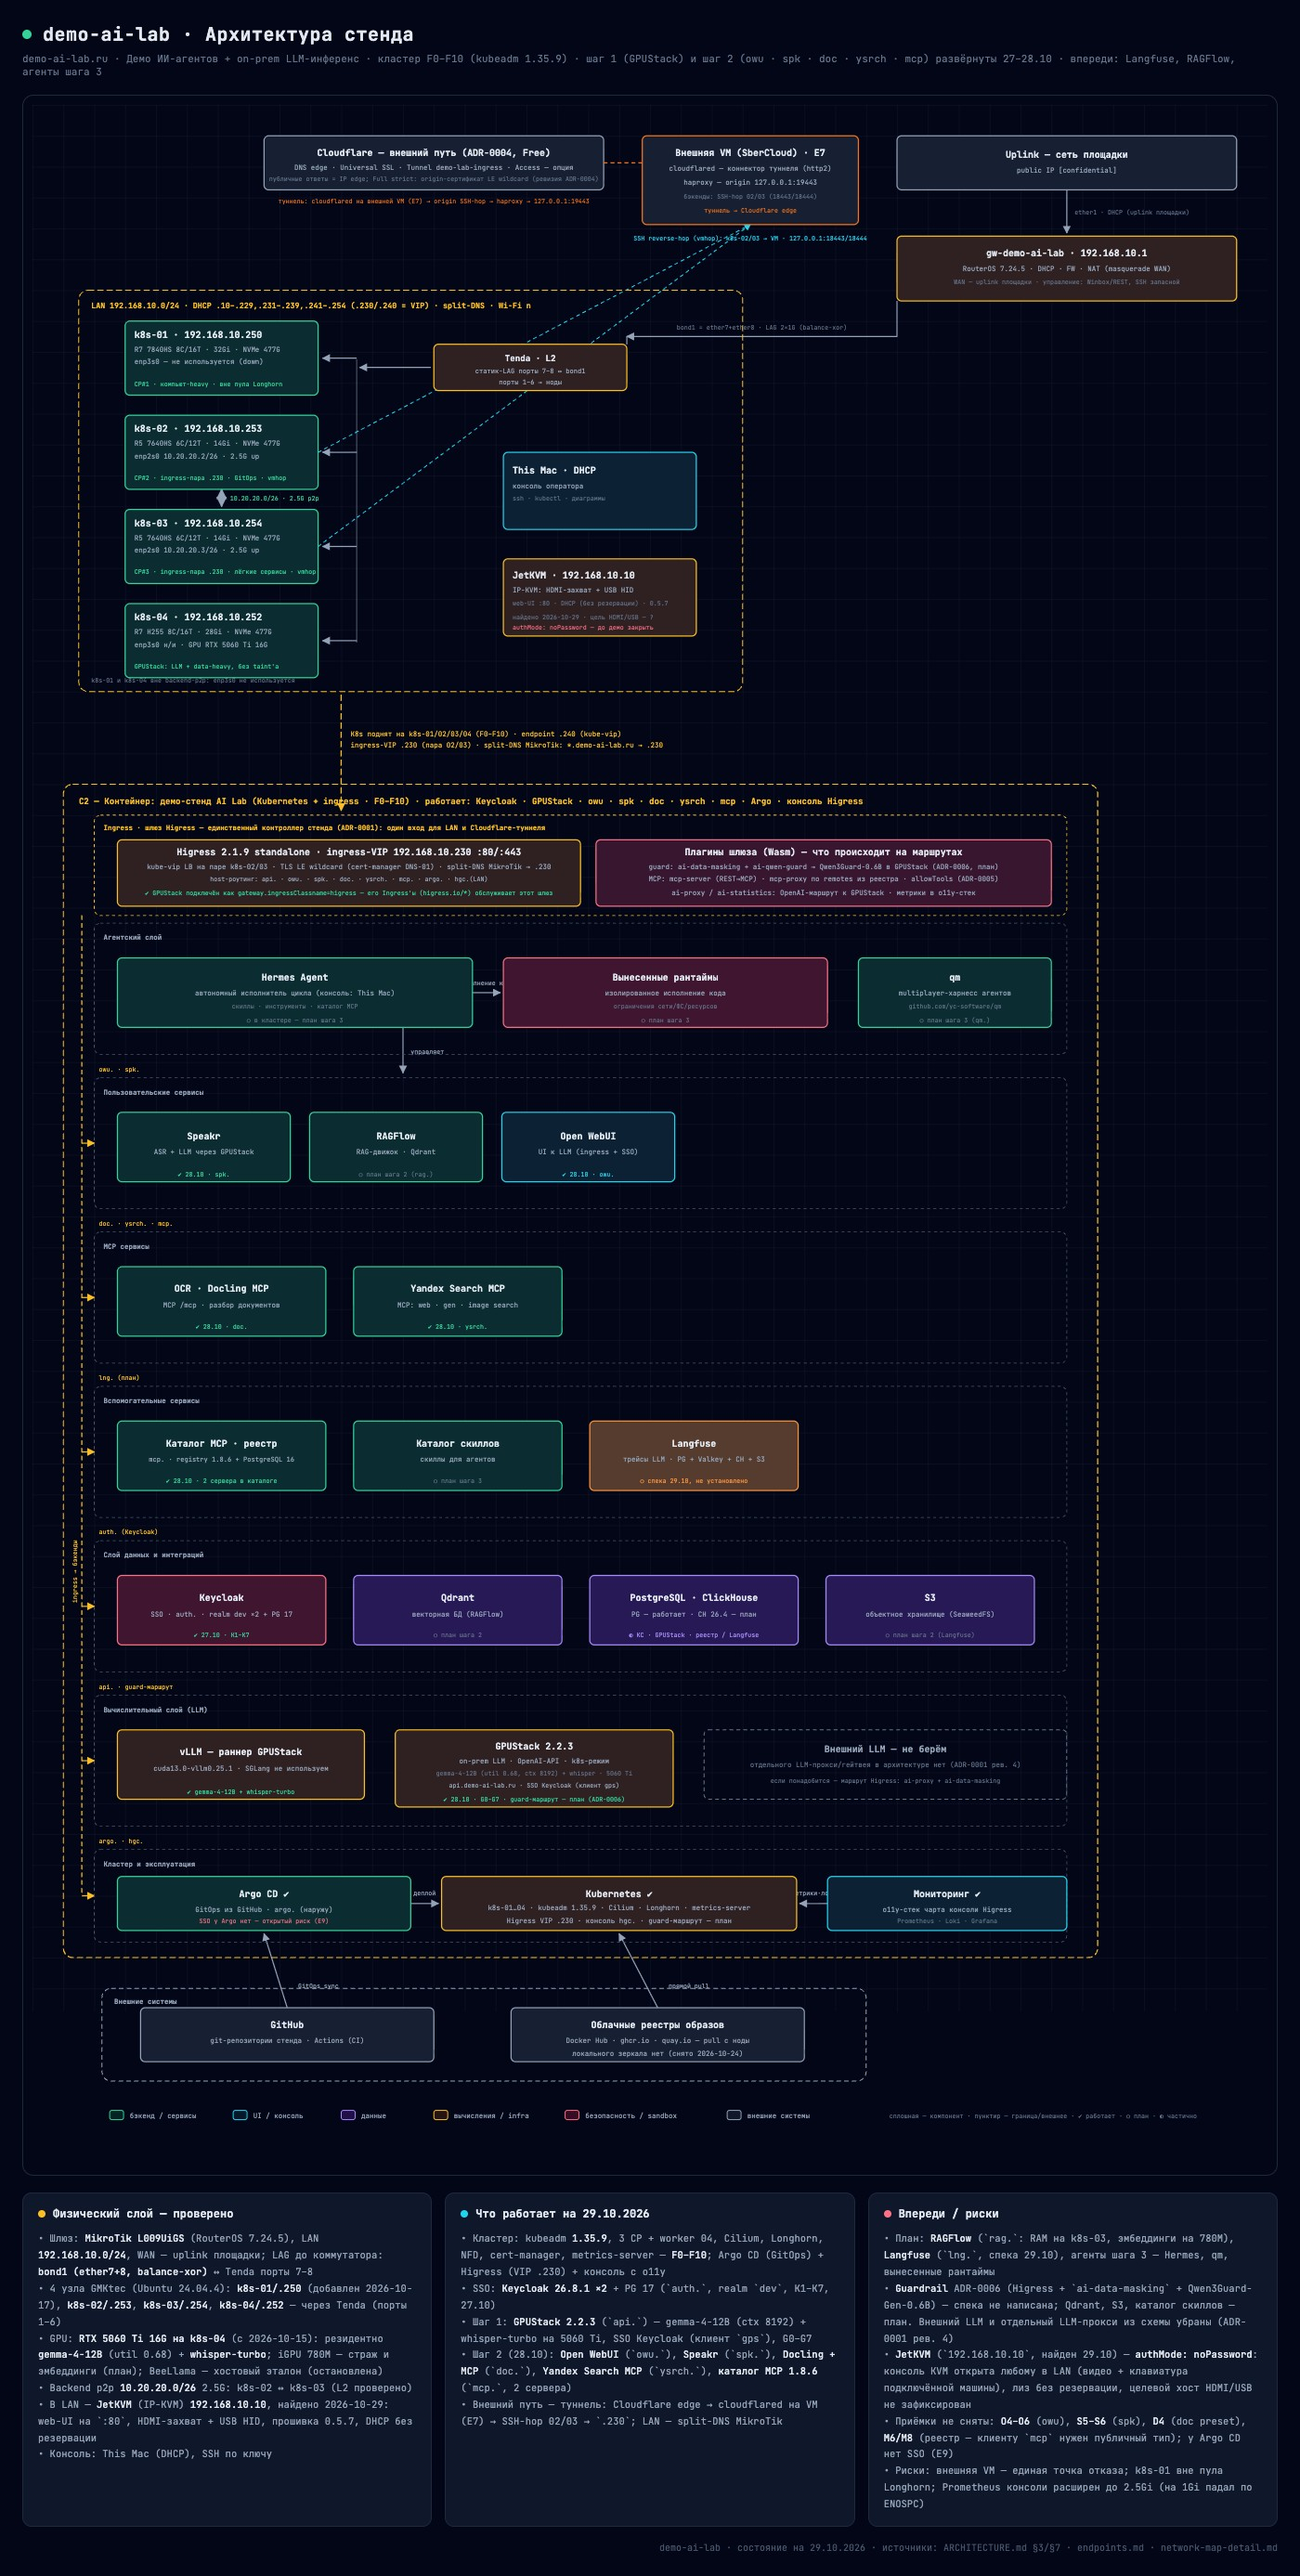
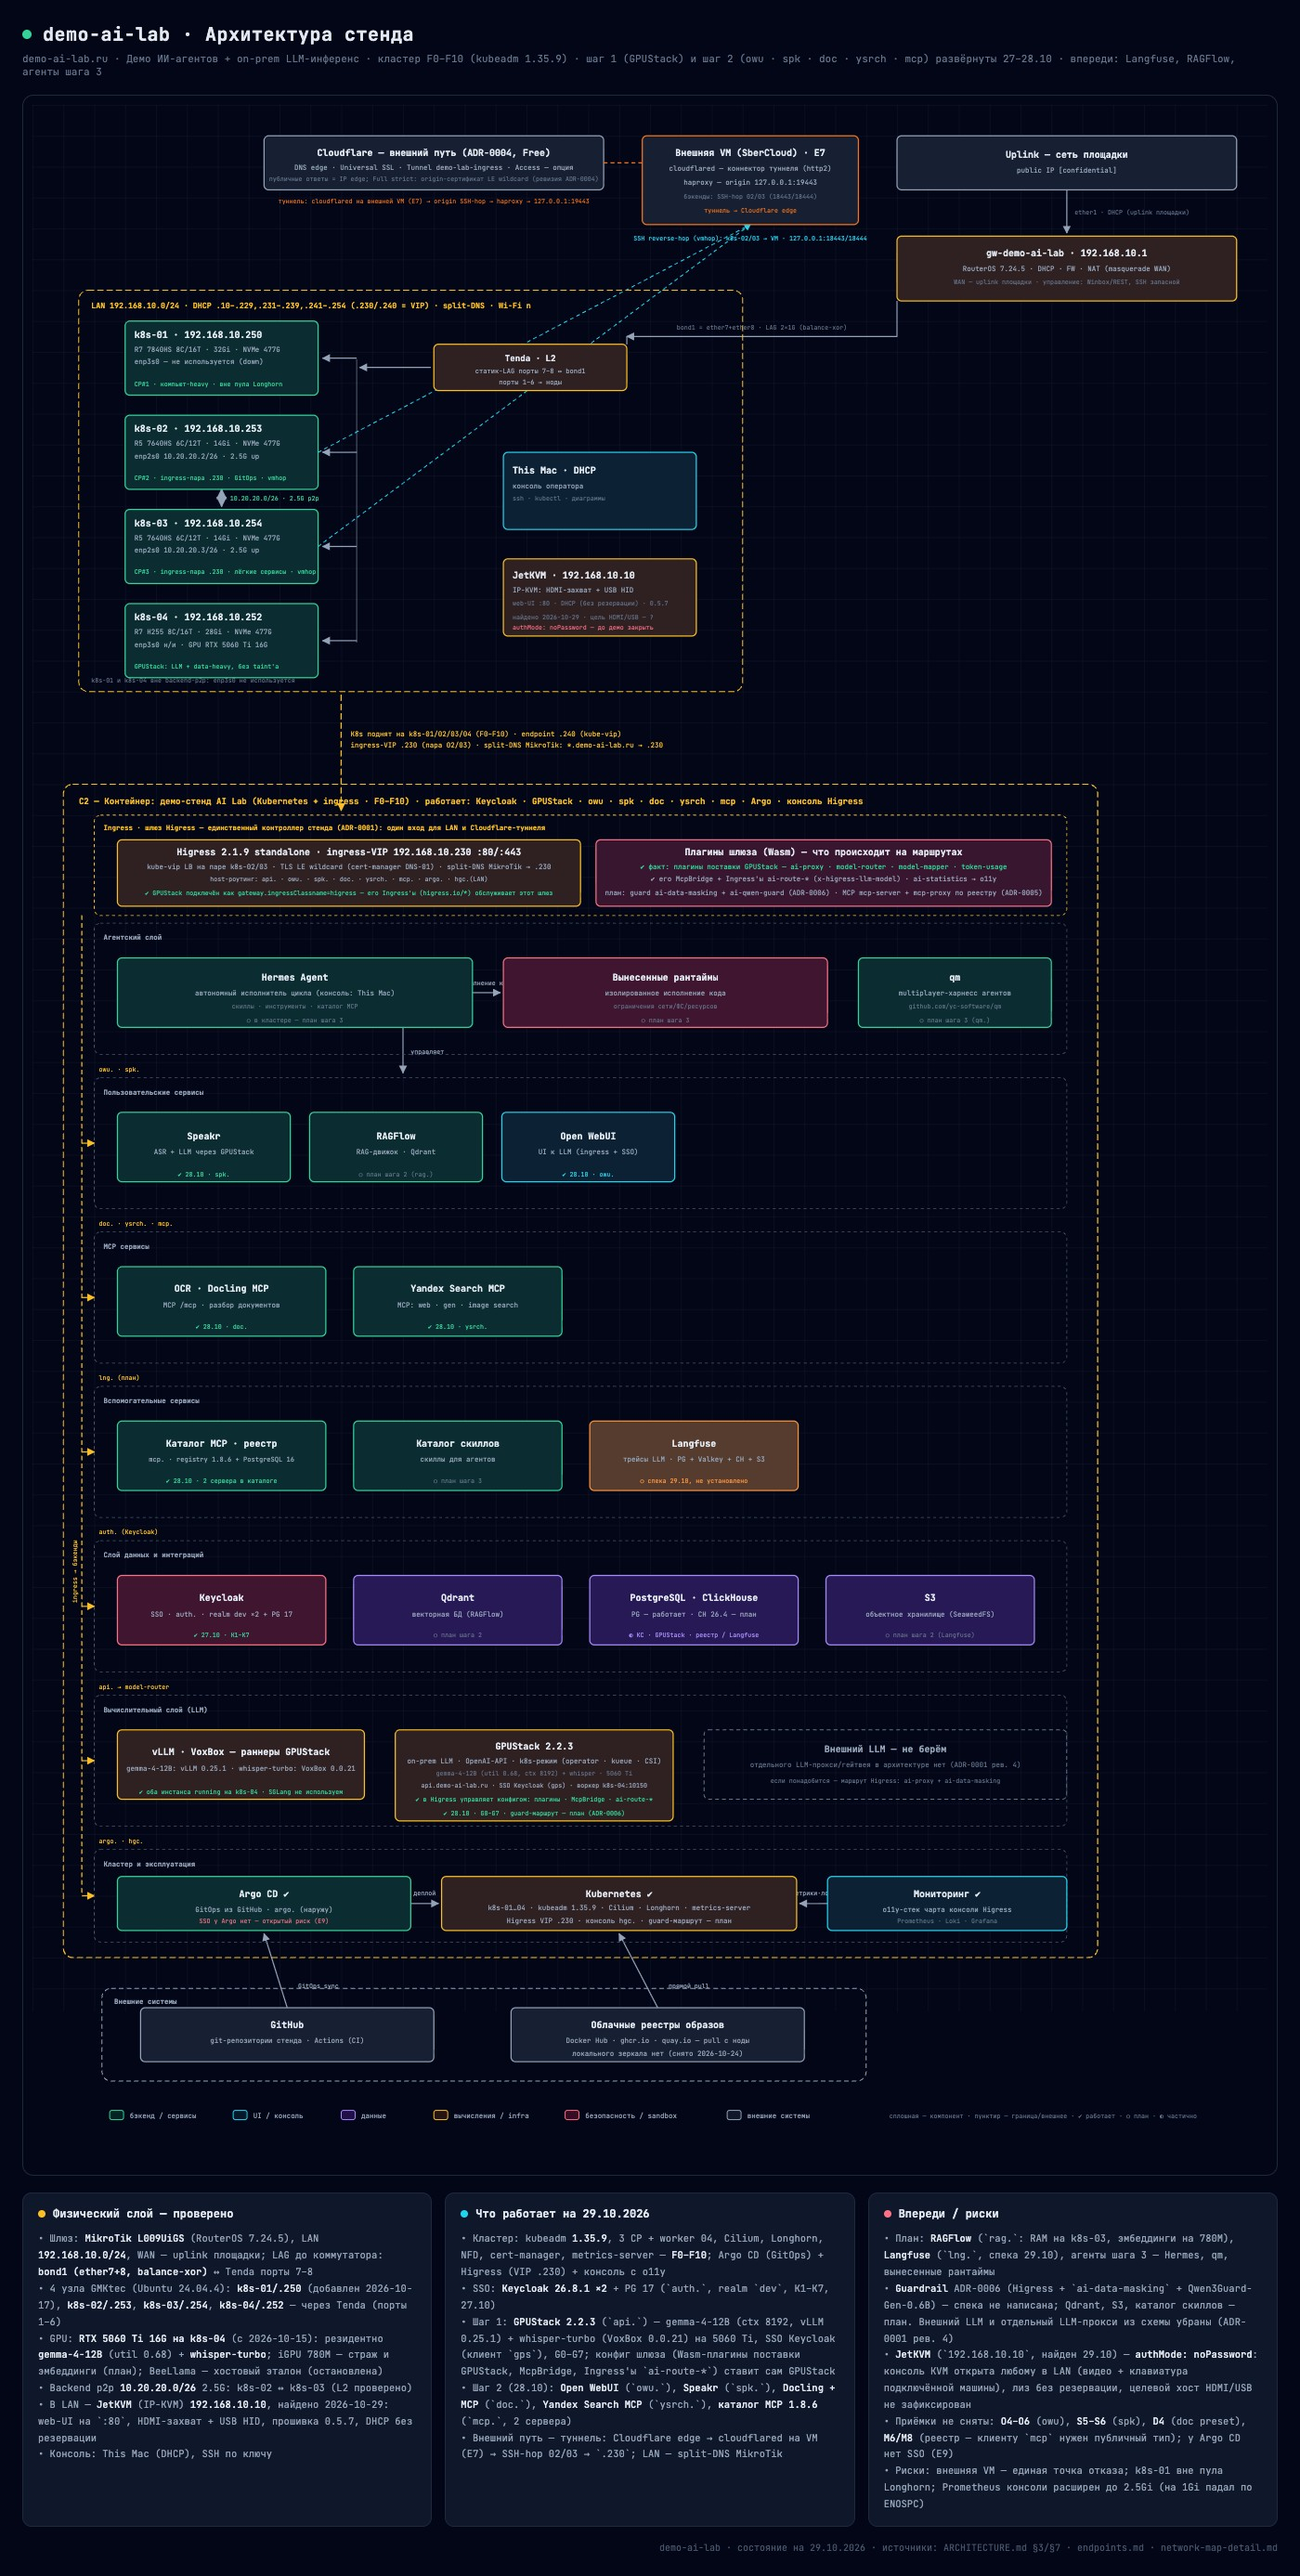
docs(architecture): вычислительный слой HTML по факту кластера
- раннеры разделены: gemma-4-12B на vLLM 0.25.1, whisper-turbo на VoxBox 0.0.21
  (было «cuda13.0-vllm0.25.1 … + whisper-turbo» под одним vLLM); SGLang не используем
- GPUStack: k8s-режим (operator · kueue · CSI), воркер на k8s-04:10150 и факт, что
  конфиг шлюза (Wasm-плагины поставки, McpBridge, Ingress'ы ai-route-*) ставит он сам
- карточка плагинов шлюза: разделено «факт» (ai-proxy · model-router · model-mapper ·
  token-usage) и «план» (guard ADR-0006, MCP ADR-0005)
- подпись на ingress-шине: api. → model-router вместо «api. · guard-маршрут»

Changed region(s): [[0.3686, 0.8991, 0.645, 0.9611], [0.3071, 0.682, 0.5221, 0.713]]

diff --git a/architecture/demo-ai-lab-architecture.html b/architecture/demo-ai-lab-architecture.html
@@ -154,9 +154,9 @@
   <rect x="730" y="952" width="590" height="86" rx="6" fill="#0f172a"/>
   <rect x="730" y="952" width="590" height="86" rx="6" fill="rgba(136,19,55,0.35)" stroke="#fb7185" stroke-width="1.5"/>
   <text x="1025" y="972" font-size="12" fill="#e2e8f0" text-anchor="middle" font-weight="700">Плагины шлюза (Wasm) — что происходит на маршрутах</text>
-  <text x="1025" y="990" font-size="9" fill="#94a3b8" text-anchor="middle">guard: ai-data-masking + ai-qwen-guard → Qwen3Guard-0.6B в GPUStack (ADR-0006, план)</text>
-  <text x="1025" y="1006" font-size="9" fill="#94a3b8" text-anchor="middle">MCP: mcp-server (REST→MCP) · mcp-proxy по remotes из реестра · allowTools (ADR-0005)</text>
-  <text x="1025" y="1024" font-size="9" fill="#94a3b8" text-anchor="middle">ai-proxy / ai-statistics: OpenAI-маршрут к GPUStack · метрики в o11y-стек</text>
+  <text x="1025" y="990" font-size="9" fill="#34d399" text-anchor="middle">✔ факт: плагины поставки GPUStack — ai-proxy · model-router · model-mapper · token-usage</text>
+  <text x="1025" y="1006" font-size="9" fill="#94a3b8" text-anchor="middle">✔ его McpBridge + Ingress'ы ai-route-* (x-higress-llm-model) · ai-statistics → o11y</text>
+  <text x="1025" y="1024" font-size="9" fill="#94a3b8" text-anchor="middle">план: guard ai-data-masking + ai-qwen-guard (ADR-0006) · MCP mcp-server + mcp-proxy по реестру (ADR-0005)</text>
 
   <!-- шина ingress: от шлюза к бэкендам -->
   <line x1="64" y1="1050" x2="64" y2="2320" stroke="#fbbf24" stroke-width="1.5" stroke-dasharray="6,4"/>
@@ -169,7 +169,7 @@
   <line x1="64" y1="1945" x2="80" y2="1945" stroke="#fbbf24" stroke-width="1.5" marker-end="url(#arrAmber)"/>
   <text x="86" y="1852" font-size="8" fill="#fbbf24">auth. (Keycloak)</text>
   <line x1="64" y1="2145" x2="80" y2="2145" stroke="#fbbf24" stroke-width="1.5" marker-end="url(#arrAmber)"/>
-  <text x="86" y="2052" font-size="8" fill="#fbbf24">api. · guard-маршрут</text>
+  <text x="86" y="2052" font-size="8" fill="#fbbf24">api. → model-router</text>
   <line x1="64" y1="2320" x2="80" y2="2320" stroke="#fbbf24" stroke-width="1.5" marker-end="url(#arrAmber)"/>
   <text x="86" y="2252" font-size="8" fill="#fbbf24">argo. · hgc.</text>
   <text x="0" y="0" transform="translate(58,1900) rotate(-90)" font-size="8" fill="#fbbf24" text-anchor="middle">ingress → бэкенды</text>
@@ -385,17 +385,18 @@
   <!-- ===== вычисления ===== -->
   <rect x="110" y="2105" width="320" height="90" rx="6" fill="#0f172a"/>
   <rect x="110" y="2105" width="320" height="90" rx="6" fill="rgba(120,53,15,0.3)" stroke="#fbbf24" stroke-width="1.5"/>
-  <text x="270" y="2138" font-size="12" fill="#e2e8f0" text-anchor="middle" font-weight="700">vLLM — раннер GPUStack</text>
-  <text x="270" y="2158" font-size="9" fill="#94a3b8" text-anchor="middle">cuda13.0-vllm0.25.1 · SGLang не используем</text>
-  <text x="270" y="2188" font-size="8" fill="#34d399" text-anchor="middle">✔ gemma-4-12B + whisper-turbo</text>
+  <text x="270" y="2138" font-size="12" fill="#e2e8f0" text-anchor="middle" font-weight="700">vLLM · VoxBox — раннеры GPUStack</text>
+  <text x="270" y="2158" font-size="9" fill="#94a3b8" text-anchor="middle">gemma-4-12B: vLLM 0.25.1 · whisper-turbo: VoxBox 0.0.21</text>
+  <text x="270" y="2188" font-size="8" fill="#34d399" text-anchor="middle">✔ оба инстанса running на k8s-04 · SGLang не используем</text>
 
-  <rect x="470" y="2105" width="360" height="100" rx="6" fill="#0f172a"/>
-  <rect x="470" y="2105" width="360" height="100" rx="6" fill="rgba(120,53,15,0.3)" stroke="#fbbf24" stroke-width="1.5"/>
+  <rect x="470" y="2105" width="360" height="118" rx="6" fill="#0f172a"/>
+  <rect x="470" y="2105" width="360" height="118" rx="6" fill="rgba(120,53,15,0.3)" stroke="#fbbf24" stroke-width="1.5"/>
   <text x="650" y="2130" font-size="12" fill="#e2e8f0" text-anchor="middle" font-weight="700">GPUStack 2.2.3</text>
-  <text x="650" y="2148" font-size="9" fill="#94a3b8" text-anchor="middle">on-prem LLM · OpenAI-API · k8s-режим</text>
+  <text x="650" y="2148" font-size="9" fill="#94a3b8" text-anchor="middle">on-prem LLM · OpenAI-API · k8s-режим (operator · kueue · CSI)</text>
   <text x="650" y="2164" font-size="8" fill="#64748b" text-anchor="middle">gemma-4-12B (util 0.68, ctx 8192) + whisper · 5060 Ti</text>
-  <text x="650" y="2180" font-size="8" fill="#94a3b8" text-anchor="middle">api.demo-ai-lab.ru · SSO Keycloak (клиент gps)</text>
-  <text x="650" y="2198" font-size="8" fill="#34d399" text-anchor="middle">✔ 28.10 · G0–G7 · guard-маршрут — план (ADR-0006)</text>
+  <text x="650" y="2180" font-size="8" fill="#94a3b8" text-anchor="middle">api.demo-ai-lab.ru · SSO Keycloak (gps) · воркер k8s-04:10150</text>
+  <text x="650" y="2198" font-size="8" fill="#34d399" text-anchor="middle">✔ в Higress управляет конфигом: плагины · McpBridge · ai-route-*</text>
+  <text x="650" y="2216" font-size="8" fill="#34d399" text-anchor="middle">✔ 28.10 · G0–G7 · guard-маршрут — план (ADR-0006)</text>
 
   <rect x="870" y="2105" width="470" height="90" rx="6" fill="none" stroke="#64748b" stroke-width="1.2" stroke-dasharray="5,4"/>
   <text x="1105" y="2134" font-size="12" fill="#94a3b8" text-anchor="middle" font-weight="700">Внешний LLM — не берём</text>
@@ -470,7 +471,7 @@
     <ul>
       <li>• Кластер: kubeadm <b>1.35.9</b>, 3 CP + worker 04, Cilium, Longhorn, NFD, cert-manager, metrics-server — <b>F0–F10</b>; Argo CD (GitOps) + Higress (VIP .230) + консоль с o11y</li>
       <li>• SSO: <b>Keycloak 26.8.1 ×2</b> + PG 17 (`auth.`, realm `dev`, K1–K7, 27.10)</li>
-      <li>• Шаг 1: <b>GPUStack 2.2.3</b> (`api.`) — gemma-4-12B (ctx 8192) + whisper-turbo на 5060 Ti, SSO Keycloak (клиент `gps`), G0–G7</li>
+      <li>• Шаг 1: <b>GPUStack 2.2.3</b> (`api.`) — gemma-4-12B (ctx 8192, vLLM 0.25.1) + whisper-turbo (VoxBox 0.0.21) на 5060 Ti, SSO Keycloak (клиент `gps`), G0–G7; конфиг шлюза (Wasm-плагины поставки GPUStack, McpBridge, Ingress'ы `ai-route-*`) ставит сам GPUStack</li>
       <li>• Шаг 2 (28.10): <b>Open WebUI</b> (`owu.`), <b>Speakr</b> (`spk.`), <b>Docling + MCP</b> (`doc.`), <b>Yandex Search MCP</b> (`ysrch.`), <b>каталог MCP 1.8.6</b> (`mcp.`, 2 сервера)</li>
       <li>• Внешний путь — туннель: Cloudflare edge → cloudflared на VM (E7) → SSH-hop 02/03 → `.230`; LAN — split-DNS MikroTik</li>
     </ul>
